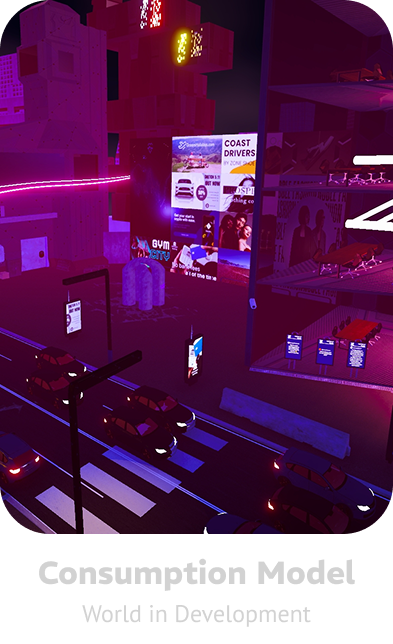
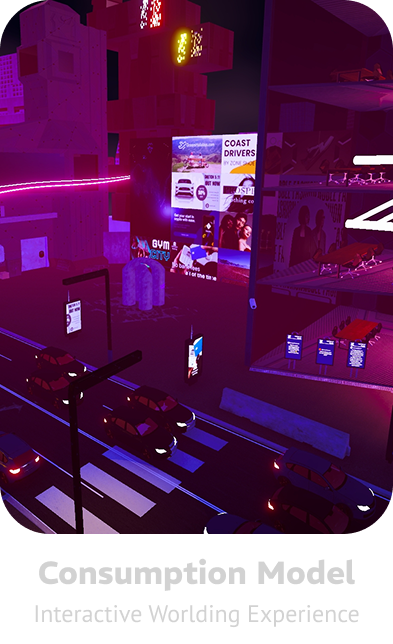
changes

Changed region(s): [[0.0916, 0.9317, 0.916, 0.9938]]

diff --git a/vegslop.html b/vegslop.html
@@ -1,4 +1,3 @@
-<!DOCTYPE html>
 <html lang="en">
   <head>
 	<script src="mouseFollowers.js" type="text/javascript"></script>
@@ -6,20 +5,14 @@
     <meta name="viewport" content="width=device-width">
 	<script src="https://code.jquery.com/jquery-3.6.0.min.js"></script>
 	<link rel="stylesheet" href="CSS/style.css">
-	  <link rel="icon" href="favicon.png" type="image/png">
-	<title>projects</title>
-	<style>
-        .imageContainer {
-            width:100%;
-            display: grid;
-            grid-template-columns: repeat(3, 1fr);
-        }
-        .imageContainer img {
-            width: 100%; /* This makes the image take 100% of the container width */
-            height: auto;
-			padding: 8px;
-        }
+	<link rel="icon" href="favicon.png" type="image/png">
+	<link href='https://fonts.googleapis.com/css?family=PT Sans' rel='stylesheet'>
+	  <style>
+        body {
+		  background-image: url('assets/tres3blur.jpg');
+		}
     </style>
+	<title>Veg Slop</title>
   </head>  
   <body>
 	<div class="header" id="myHeader">
@@ -33,62 +26,32 @@
 		</script>  
 	</div>
     <div id="wrapper">
-		<h2> Nowhere Actually Existing</h2>
-		<div class="slider">
-			<div class="slides">
-			  <img id="img-6" src="assets/daytime2.png" alt="Image 1"/>
-			  <img id="img-7" src="assets/cloud2.png" alt="Image 2"/>
-			  <img id="img-8" src="assets/daytime3.png" alt="Image 3"/>
-			  <img id="img-9" src="assets/cloud1.png" alt="Image 4"/>
-			  <img id="img-10" src="assets/nae2.png" alt="Image 5"/>
-			  <img id="img-11" src="assets/nae3.png" alt="Image 5"/>
-			</div>
-			<div class="navigation-button">
-			  <button class="prev" onclick="changeSlide(0, -1)">&#10094;</button>
-			  <button class="next" onclick="changeSlide(0, 1)">&#10095;</button>
-			</div>
-		  </div>
-	  <p>
-		Worlding piece I created for my final year project at Goldsmiths University, developed in Unity. It has existed in multiple forms: a downloadable game, an immersive, meditative space which ran at Goldsmiths in May 2023 and an interactive film at Thin Air, Beams in June 2023. It's blurb is:  
+		<div class="title">
+			<img src="assets/titles/vegslop.png">
+		</div>
 		<br>
-		<br>
-		This is Nowhere Actually Existing, and at it’s core, it is exactly that. It a digital worldbuilding piece illustrating a place that doesn’t exist, and won’t ever exist. It is a world that solely comes from my head and my imagination, embodying ideas of simulation being a presentation of a person’s perception of reality, originally coming from game designer Doris C. Rusch. Furthermore, it depicts an idyllic, sustainable community, with animals running around freely and wildly, depicting a Utopia, and in particular, my utopia, as it is my perception of reality. The name in particular comes from the book The Village Against The World which discusses the village and enhabitants of Marinaleda in Spain who created a ‘Utopia’ and a foundation for a cooperative way of life. However, this world is only a simulation. However perfect it may present as, it has it's flaws and it calls on you to find them. This utopia isn’t real, and will assure you you’re aware of it. 
-		<br>
-		<p> I documented my creative process and project development on my blog <a href="https://mtall3.tumblr.com/">here</a></p>
-		<br>
+		<img src="assets/vegslop/title.png">
+		<p>The Big Northern Family Gathering Simulator</p> 
+		<p>Explore family gatherings over multiple years through the eyes of a child in northern England. Navigate through the same home as the family comes together year after year for different events, evolving over time. </p>
+		<p>Solo project</p>
+		<p>Featured at Voidspace Live 2025</p>
+		<p>Download here: </p>
 		<div id="itchframe">
-			<iframe frameborder="0" src="https://itch.io/embed/1969480?linkback=true&amp;border_width=5&amp;bg_color=f1f1f1&amp;fg_color=363636&amp;link_color=363636&amp;border_color=363636" width="600" height="175"><a href="https://matallon.itch.io/no">Nowhere Actually Existing by matallon</a></iframe>
-		</div>
+			<iframe frameborder="0" src="https://itch.io/embed/3235077" width="552" height="167"><a href="https://matallon.itch.io/veg-slop">Veg Slop by matallon</a></iframe>
+		<div>
 		<br>
-	</p>
-	<p> 
-		This piece ran live at Goldsmiths University's SIML space and then at The Beams, both in London. The Goldsmith's version removed the interactivity from the piece, whilst at Beams a limited amount of interaction was added back in to create an interactive film by providing some audience members with an Xbox controller to change the scenery across the screens. Both versions included sound from VenAur, which was created with Pure Data. Here Vendela (VenAur) speaks on the collaboration: 
-	</p>
-		<div id="quoted">
-			<p> In parallel with the visuals of the digital worldbuilding piece "This is Nowhere Actually Existing," I crafted an accompanying audio landscape that harmoniously complemented the visual elements. The audio was created using Pure Data and consisted of layer of ambience which was created using techniques such as the manipulation of noise and phasors. Drawing inspiration from the nature portrayed in the visuals, I crafted a composition that intertwines tranquility, excitement, and subtle elements wind. By integrating the auditory and visual elements, our collaboration aimed to transport the audience to a realm that blurs the boundaries between reality and imagination, inviting them to explore the simulated utopia.</p>
-		</div>
-		<h3> At Goldsmiths:</h3>
-		<div id="itchframe">
-			<iframe width="600" height="315" src="https://www.youtube.com/embed/CwK44Iyrxb8" title="YouTube video player" frameborder="0" allow="accelerometer; autoplay; clipboard-write; encrypted-media; gyroscope; picture-in-picture; web-share" allowfullscreen></iframe>
-		</div>
-		<h3> At Beams: </h3>
-		<div class="imageContainer">
-			<a target="_blank" href="assets/beams2.png">
-				<img id="img-12" src="assets/beams2.png" alt="Image 5"/>
-			</a>
-			<a target="_blank" href="assets/naebeams.png">
-				<img id="img-12" src="assets/naebeams.png" alt="Image 5"/>
-			</a>
-			<a target="_blank" href="assets/beams3.png">
-				<img id="img-12" src="assets/beams3.png" alt="Image 5"/>
-			</a>
-		</div>
+		<img src="assets/vegslop/brother.png">
+		<img src="assets/vegslop/long.png">
+		<br>
+		<br>
+		<br>
+		<br>
+		</p>
 	</div>
-
     <div id="footer">
 		@marytallontire
 	</div>
-	<script src="sticky.js" type="text/javascript"></script>
+	<script src="sticky.js" type="text/javascript"></script> 
 	<script src="slideshow.js"></script>
 </body>
 </html>

diff --git a/consumptionmodel.html b/consumptionmodel.html
@@ -9,7 +9,7 @@
 	
 	<link rel="stylesheet" href="CSS/style.css">
 	  <link rel="icon" href="favicon.png" type="image/png">
-	<title>rarity</title>
+	<title>Consumption Model</title>
 	<style>
         body {
 		  background-image: url('assets/tres3blur.jpg');
@@ -32,21 +32,20 @@
 	</div>
 	<br>
     <div id="wrapper">
-		<img src="assets/consumptionmodel/progress.png">
-		<p>
-			Interactive worlding piece developed in Unity. 
-			<br> 
-			<br>
-			Interactive experience critiquing the internet, capitalism and digital oligarchy using digital worldbuilding. The game itself acts as a mechanism of the world's oligarchy, and is an embodyment of the internet consumption model. 
-			<br>
 		<br>
-
-			Will be available to download soon! 
-			<br>
-		</p> 
+		<div style="left: 0; width: 100%; height: 0; position: relative; padding-bottom: 56.25%;"><iframe src="https://www.youtube.com/embed/zfIEdsY5vNM?rel=0" style="top: 0; left: 0; width: 100%; height: 100%; position: absolute; border: 0;" allowfullscreen scrolling="no" allow="accelerometer *; clipboard-write *; encrypted-media *; gyroscope *; picture-in-picture *; web-share *;"></iframe></div>
+		<p> You've just driven to a new area of the city. </p>
+		<p>	You're desperate to find evidence of others. Others also wanting to persist. </p>
+		<p> Interactive worlding experience created to encourage players to think and assess the current technology landscape and digital oligarchy. Revolves around Feenburg’s 2012 paper Re)Inventing The Internet : Critical Case Studies discussing the different models of the internet, in particular the consumption model, and themes of digital oligarchy, trans-humanism and cyborgs (Haraway, 1985). A world where these themes where these themes manifest is created. </p>
+		<p>The consumption model of the internet: "This is the final  extension of capitalist rationalisation into every corner of our lives," Feenburg, 2012.</p>
+		<p>Interactive experience critiquing the internet, capitalism and digital oligarchy using digital worldbuilding. The game itself acts as a mechanism of the world's oligarchy, and is an embodyment of the internet consumption model. 
+		<br> 
+		<p>Solo project released on 8th June 2025</p>
+		<p>Download here: </p>
+		<div id="itchframe">
+			<iframe frameborder="0" src="https://itch.io/embed/3625027" width="552" height="167" text-align="auto"><a href="https://matallon.itch.io/consumptionmodel">Consumption Model by matallon</a></iframe>
+		</div>
 		<br>
-		<br>
-		  <br>
 	  </p>
 	</div>
     <div id="footer">

diff --git a/breadleg.html b/breadleg.html
@@ -8,7 +8,6 @@
 	<link rel="stylesheet" href="CSS/style.css">
 	<link rel="icon" href="favicon.png" type="image/png">
 	<link href='https://fonts.googleapis.com/css?family=PT Sans' rel='stylesheet'>
-
 	  <style>
         body {
 		  background-image: url('assets/tres3blur.jpg');
@@ -33,11 +32,15 @@
 		</div>
 		<div style="left: 0; width: 100%; height: 0; position: relative; padding-bottom: 56.25%;"><iframe src="https://www.youtube.com/embed/y7oVaCAc4f4?rel=0" style="top: 0; left: 0; width: 100%; height: 100%; position: absolute; border: 0;" allowfullscreen scrolling="no" allow="accelerometer; clipboard-write; encrypted-media; gyroscope; picture-in-picture; web-share;"></iframe></div>
 		<p> Breadleg is an absurdist, comedy game about running round a scottish village as a piece of bread with legs. Encounter the people of the village and collect socks to help you escape without being eaten, whilst maybe getting involved in a bit of mischief along the way.</p> 
-		<p> Solo project. Released on itch.io on 17th May 2025</p>
+		<p> Solo project. Released on itch.io on 17th May 2025, but I'm open to develop this further!</p>
+		<p> Featured as a guest project at ECGX 2025</p>
+		<p>Download here: </p>
+		<div id="itchframe">
+		<iframe frameborder="0" src="https://itch.io/embed/3552947" width="552" height="167"><a href="https://matallon.itch.io/breadleg">Breadleg by matallon</a></iframe>
+		</div>
 		<br>
 		<br>
-		<img src="assets/breadleg/brids.png">
-	  </p>
+	</p>
 	</div>
     <div id="footer">
 		@marytallontire

diff --git a/gallery.html b/gallery.html
@@ -35,7 +35,6 @@
 	</div>
 	<br>
 	<div class="grid" class="relative">
-				<div class="overlay">
 				<div class="row">
 				<div class="grid">
 					<div class="column">
@@ -68,7 +67,6 @@
 						<a href="lensstudio.html"><img src="assets/portfolio/ARdev.png" style="width:100%"></a>
 					</div>
 				</div>
-			</div>
 			</div>
 		</div>
 	</div>

diff --git a/CSS/style.css b/CSS/style.css
@@ -145,7 +145,7 @@ iframe {
   }
   .active,
   .dot:hover {
-	background-color: #c7c7c7;
+	background-color: #e7e7e7;
   }
 
   div.gallery {
